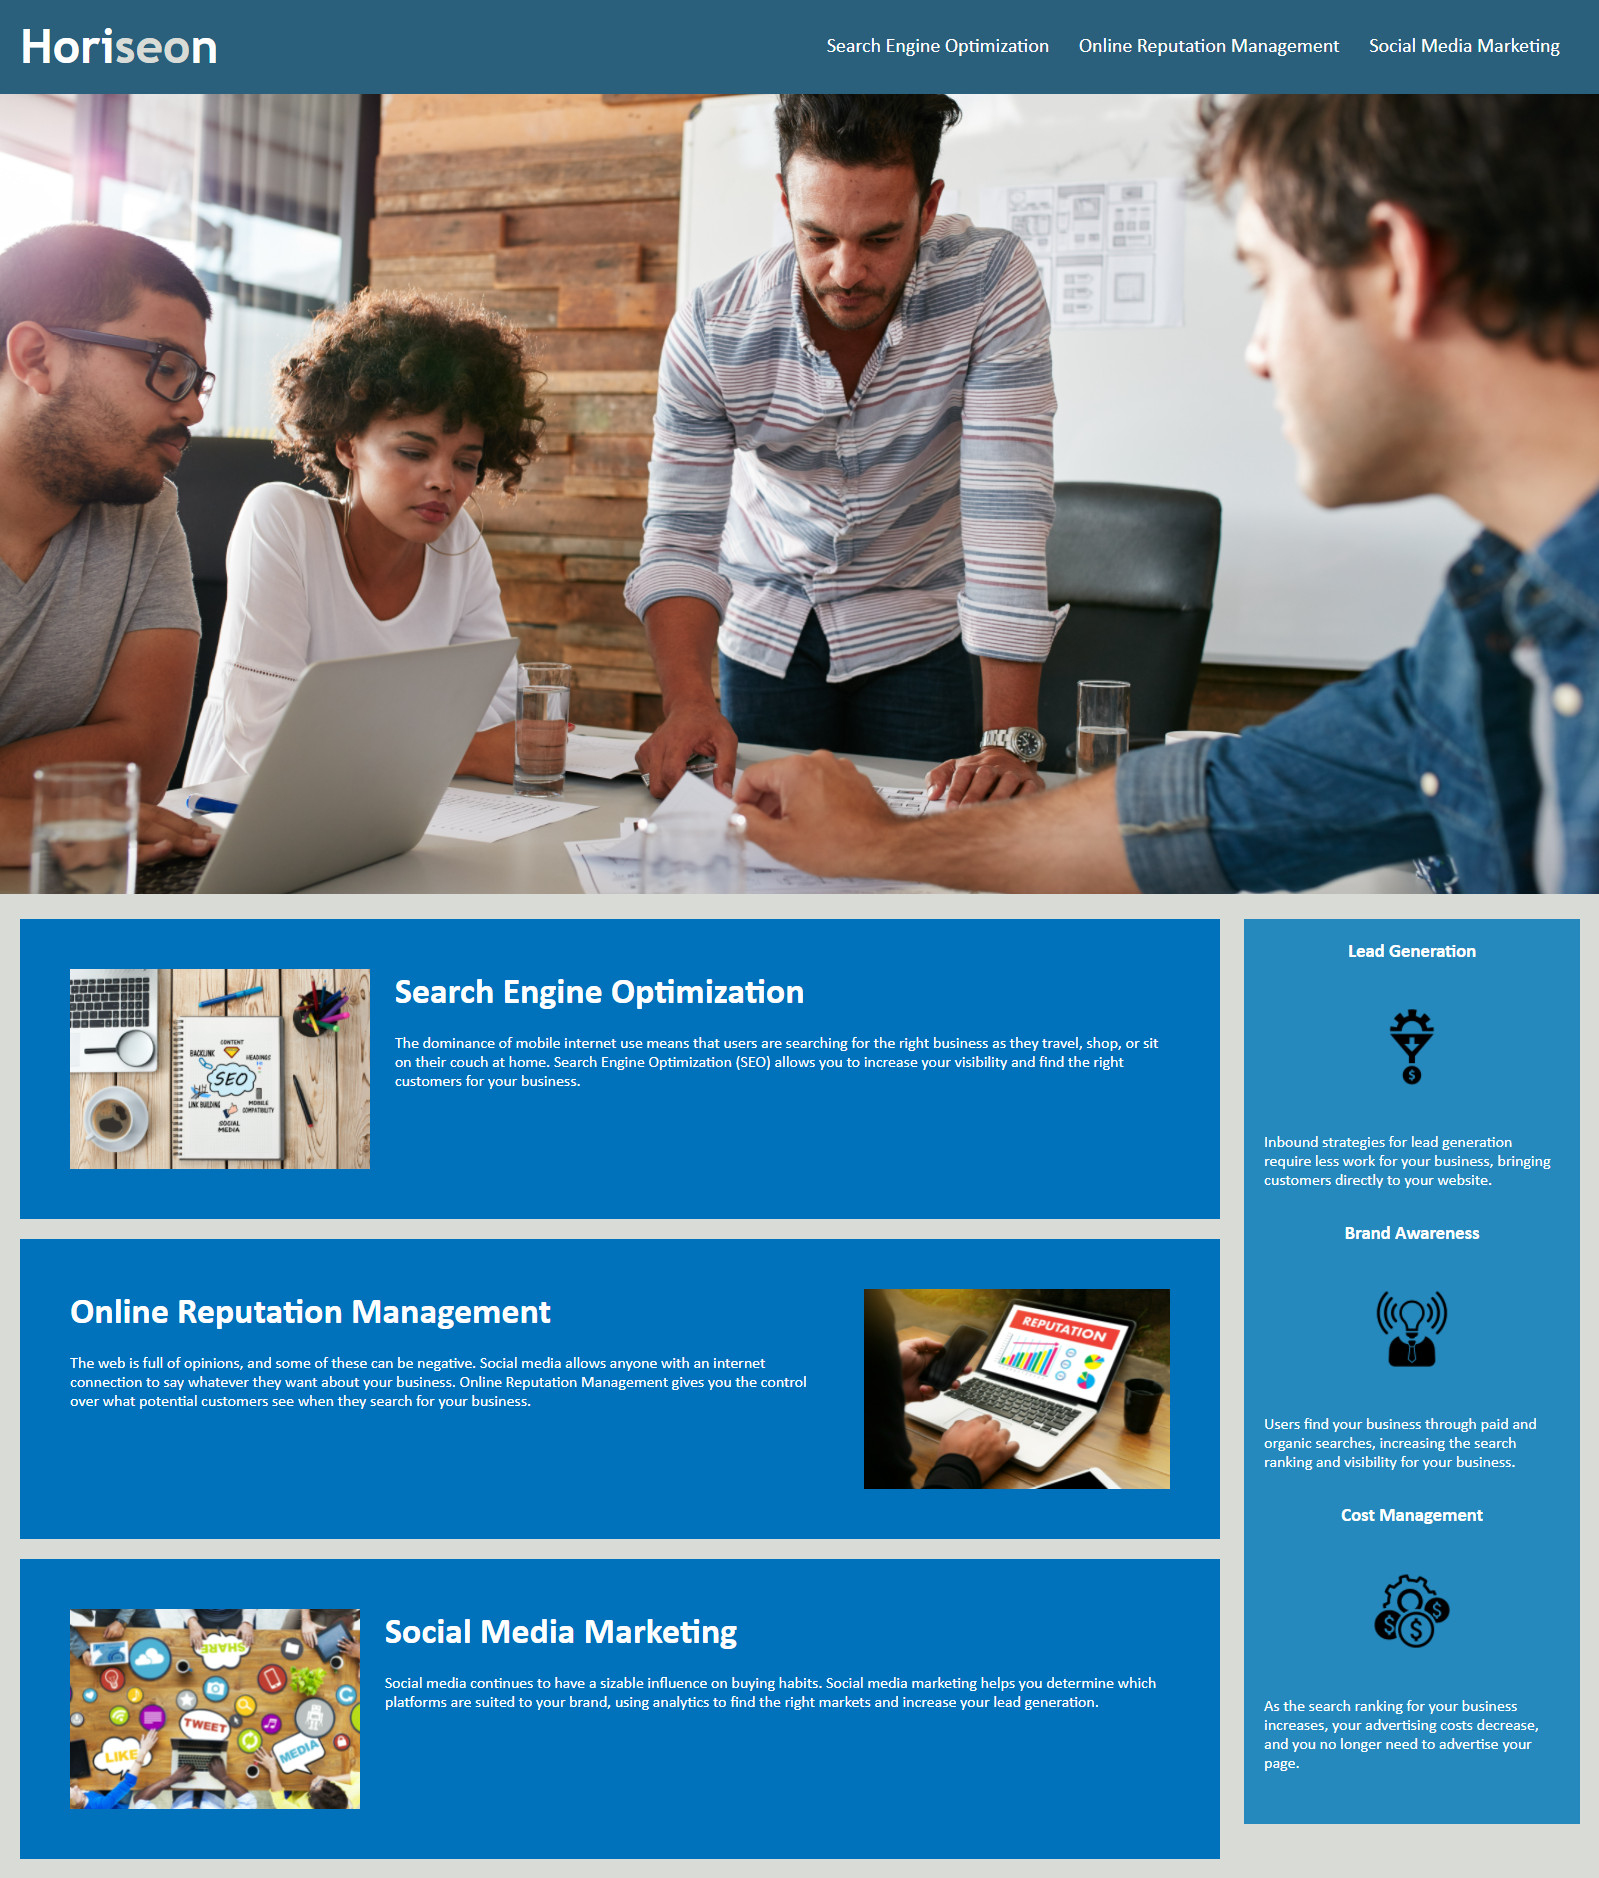
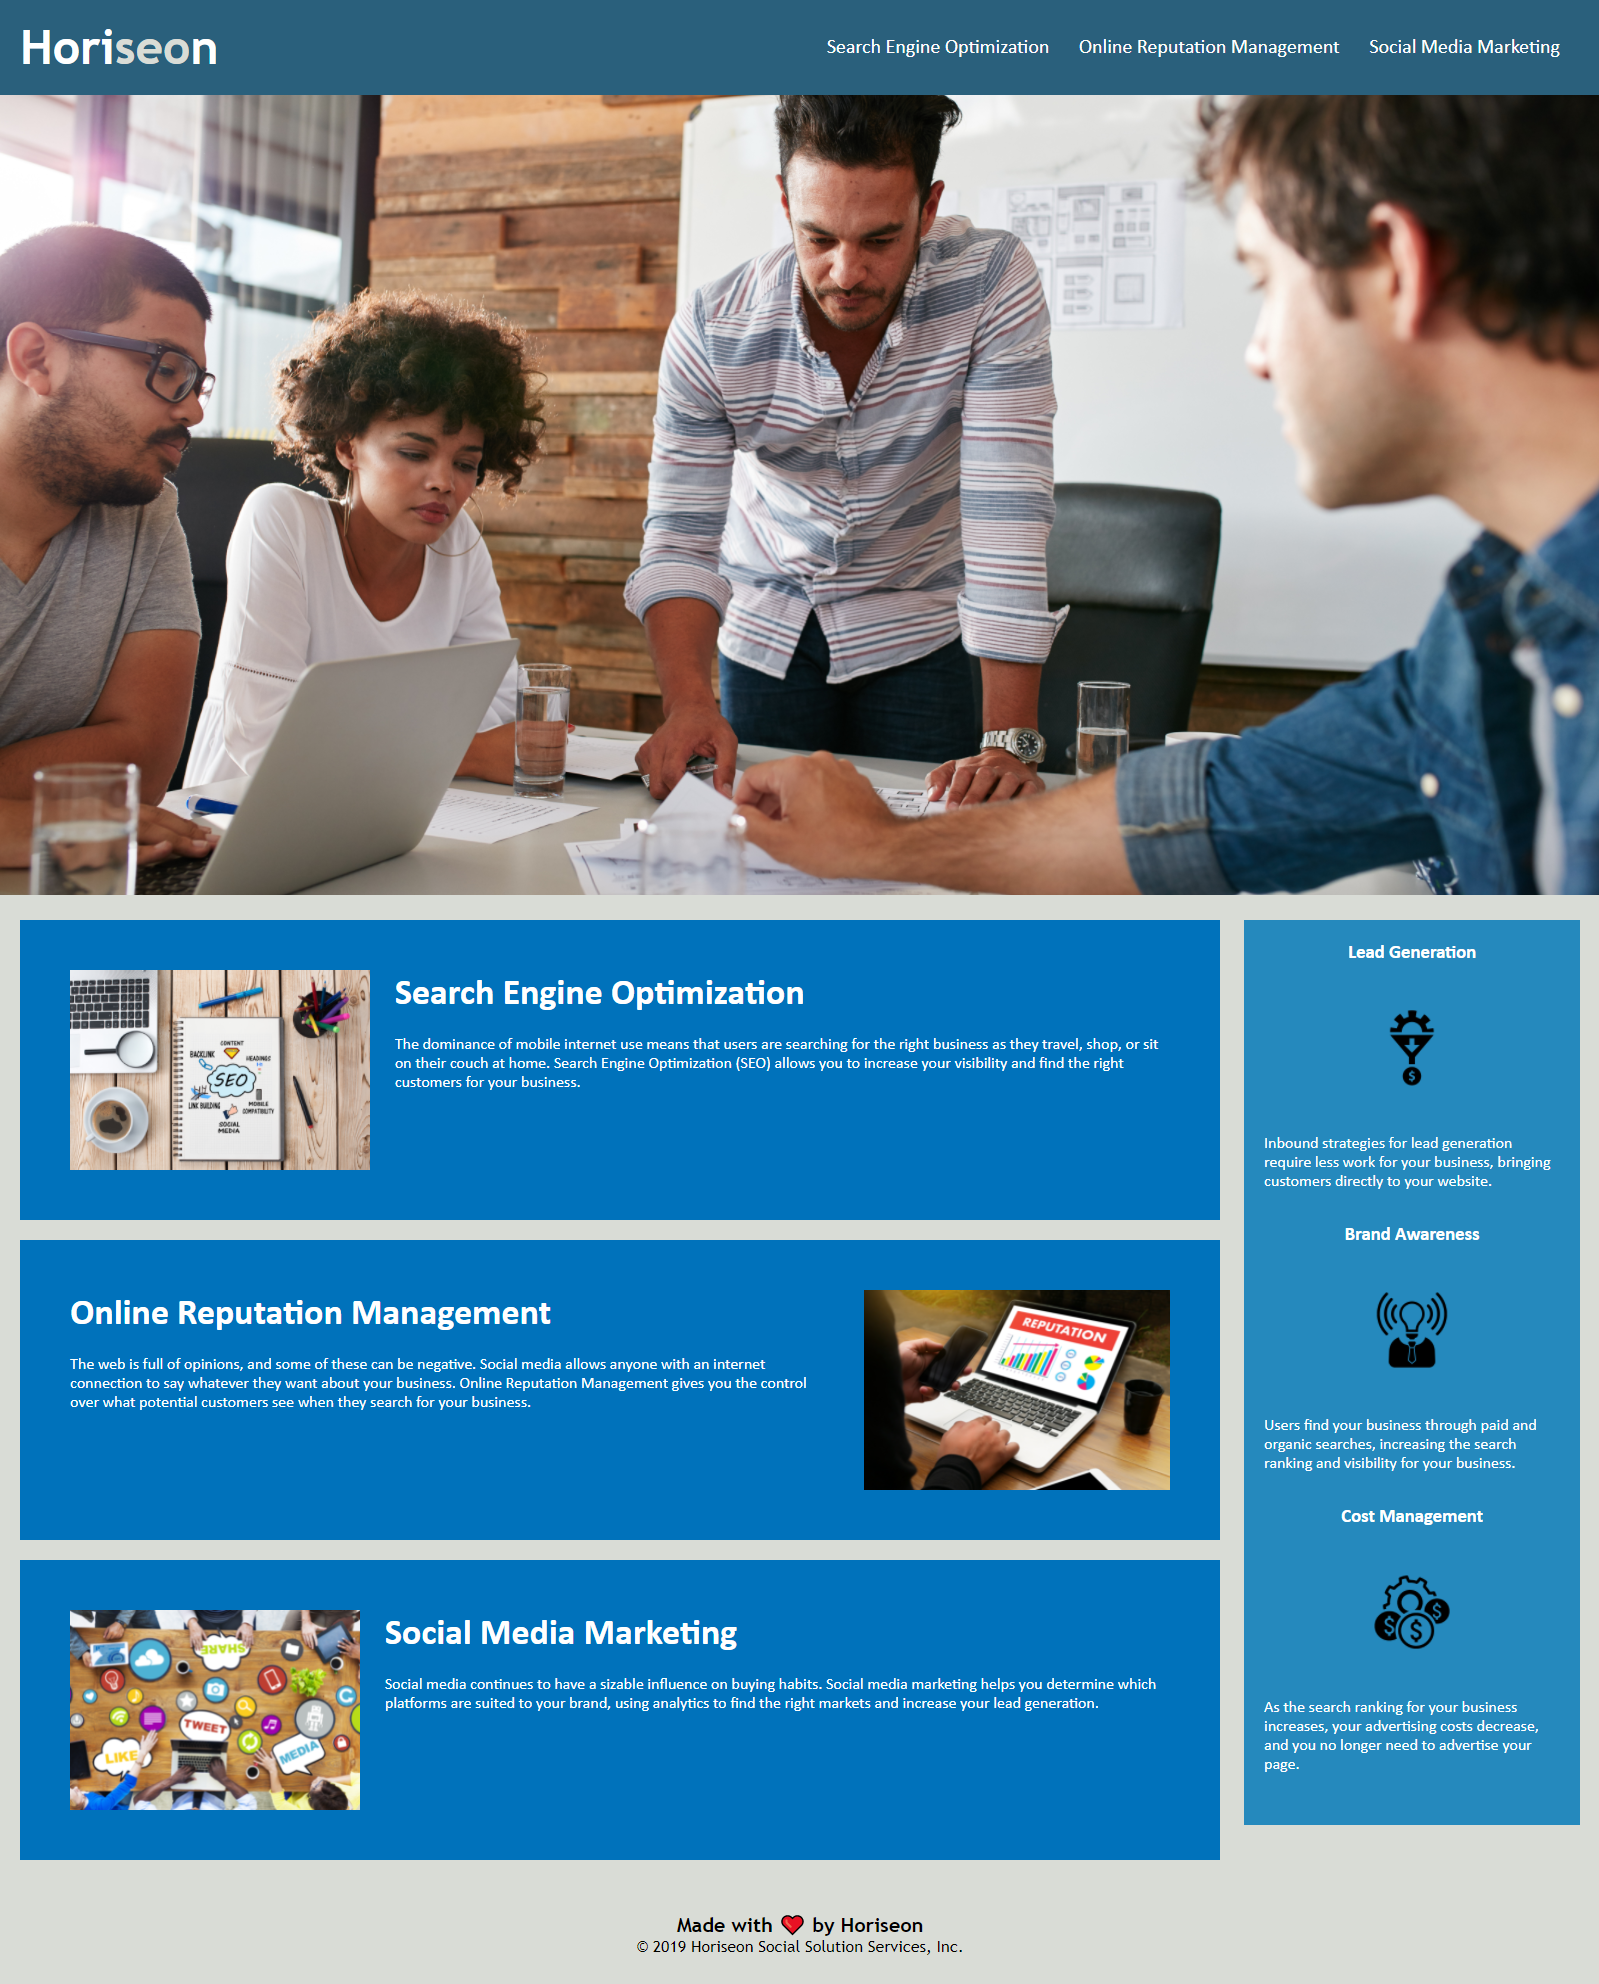
added footer and updated screenshot

diff --git a/index.html b/index.html
@@ -93,6 +93,15 @@
                 As the search ranking for your business increases, your advertising costs decrease, and you no longer need to advertise your page.
             </p>
         </section>
+    </div>
+    
+    <footer>
+        <h2>Made with ❤ by Horiseon</h2>
+        <p>
+            &copy; 2019 Horiseon Social Solution Services, Inc.
+        </p>
+    </footer>
+
 </body>
 
 </html>

diff --git a/assets/css/style.css b/assets/css/style.css
@@ -52,6 +52,17 @@ p {
     font-size: 16px;
 }
 
+footer {
+    padding: 30px;
+    clear: both;
+    font-family: 'Trebuchet MS', 'Lucida Sans Unicode', 'Lucida Grande', 'Lucida Sans', Arial, sans-serif;
+    text-align: center;
+}
+
+footer h2 {
+    font-size: 20px;
+}
+
 /* style hero start */
 .hero {
     height: 800px;
